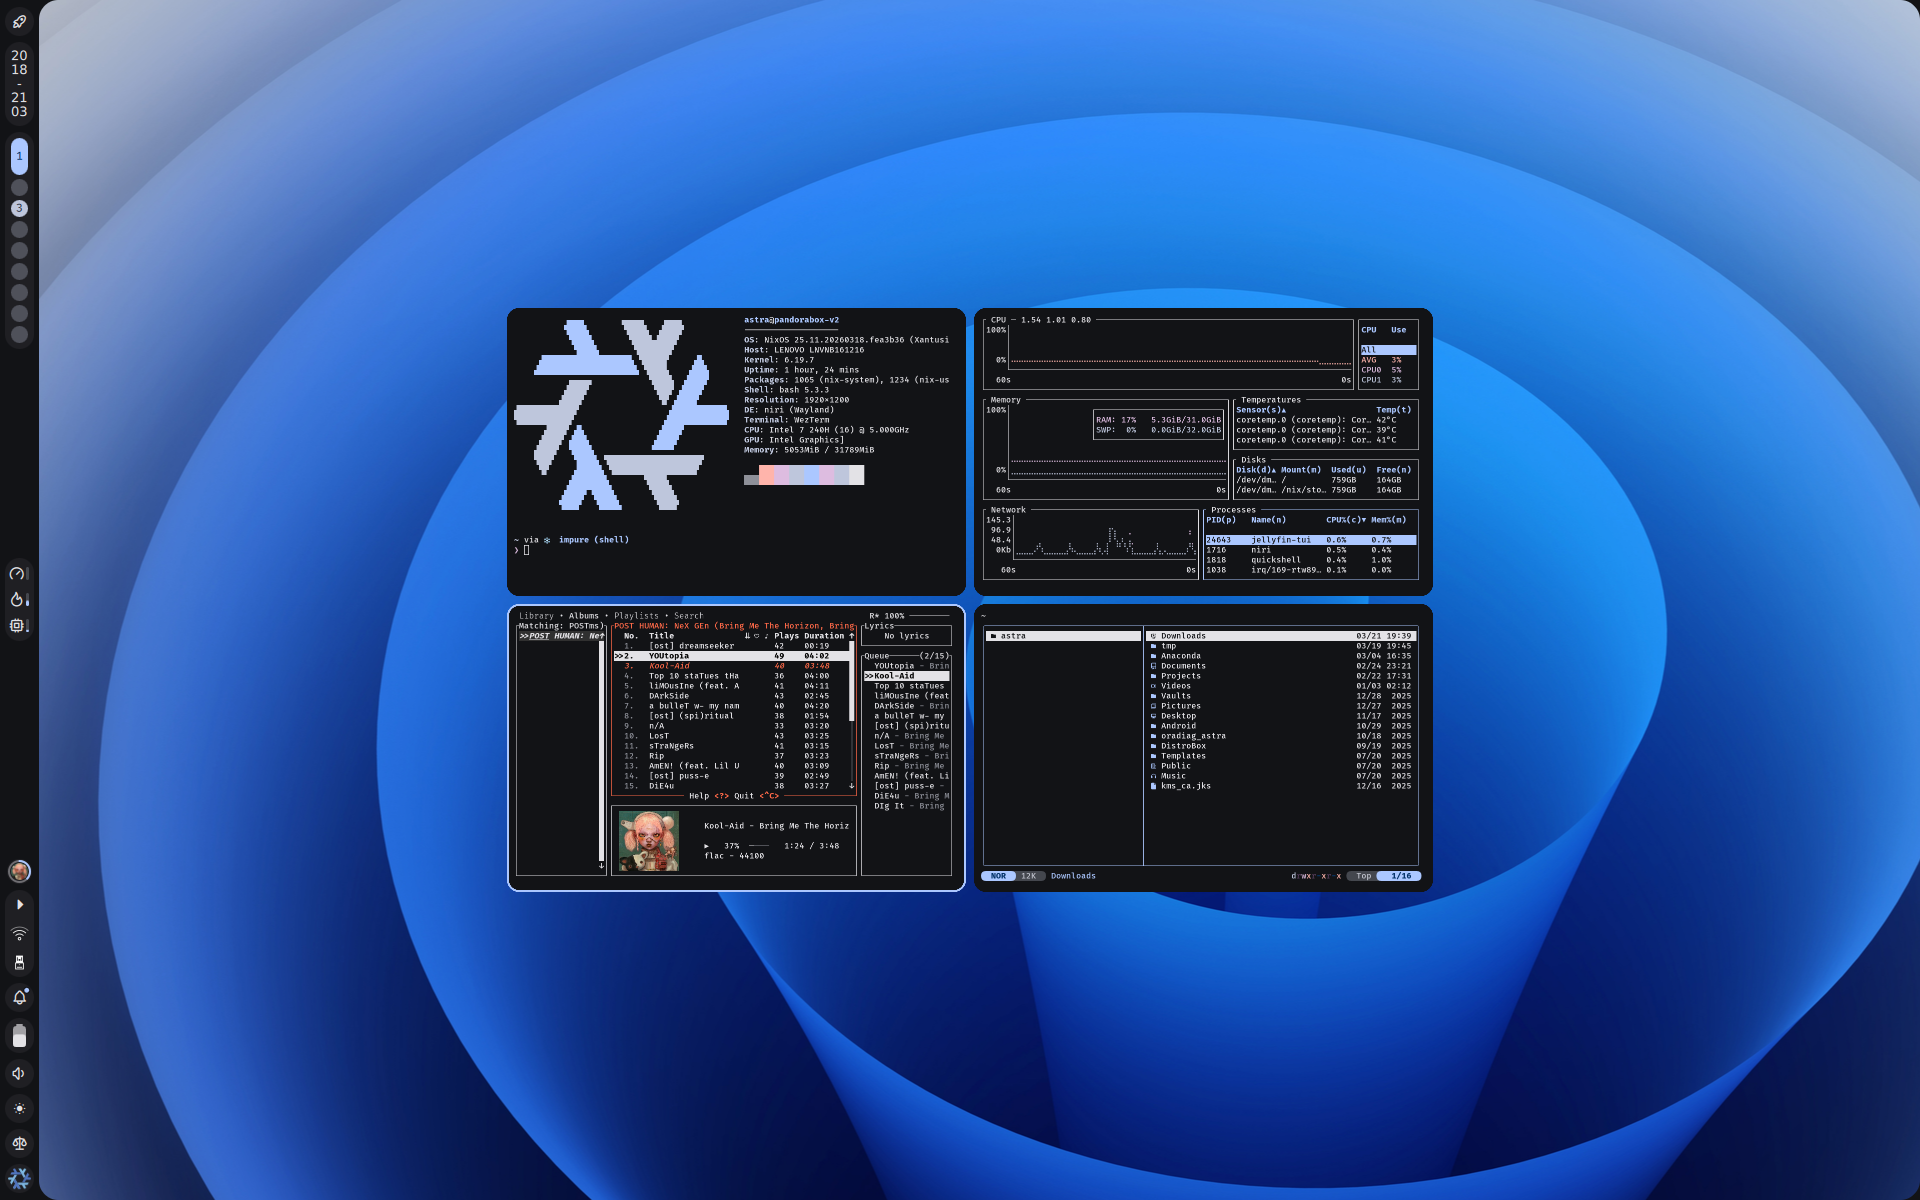
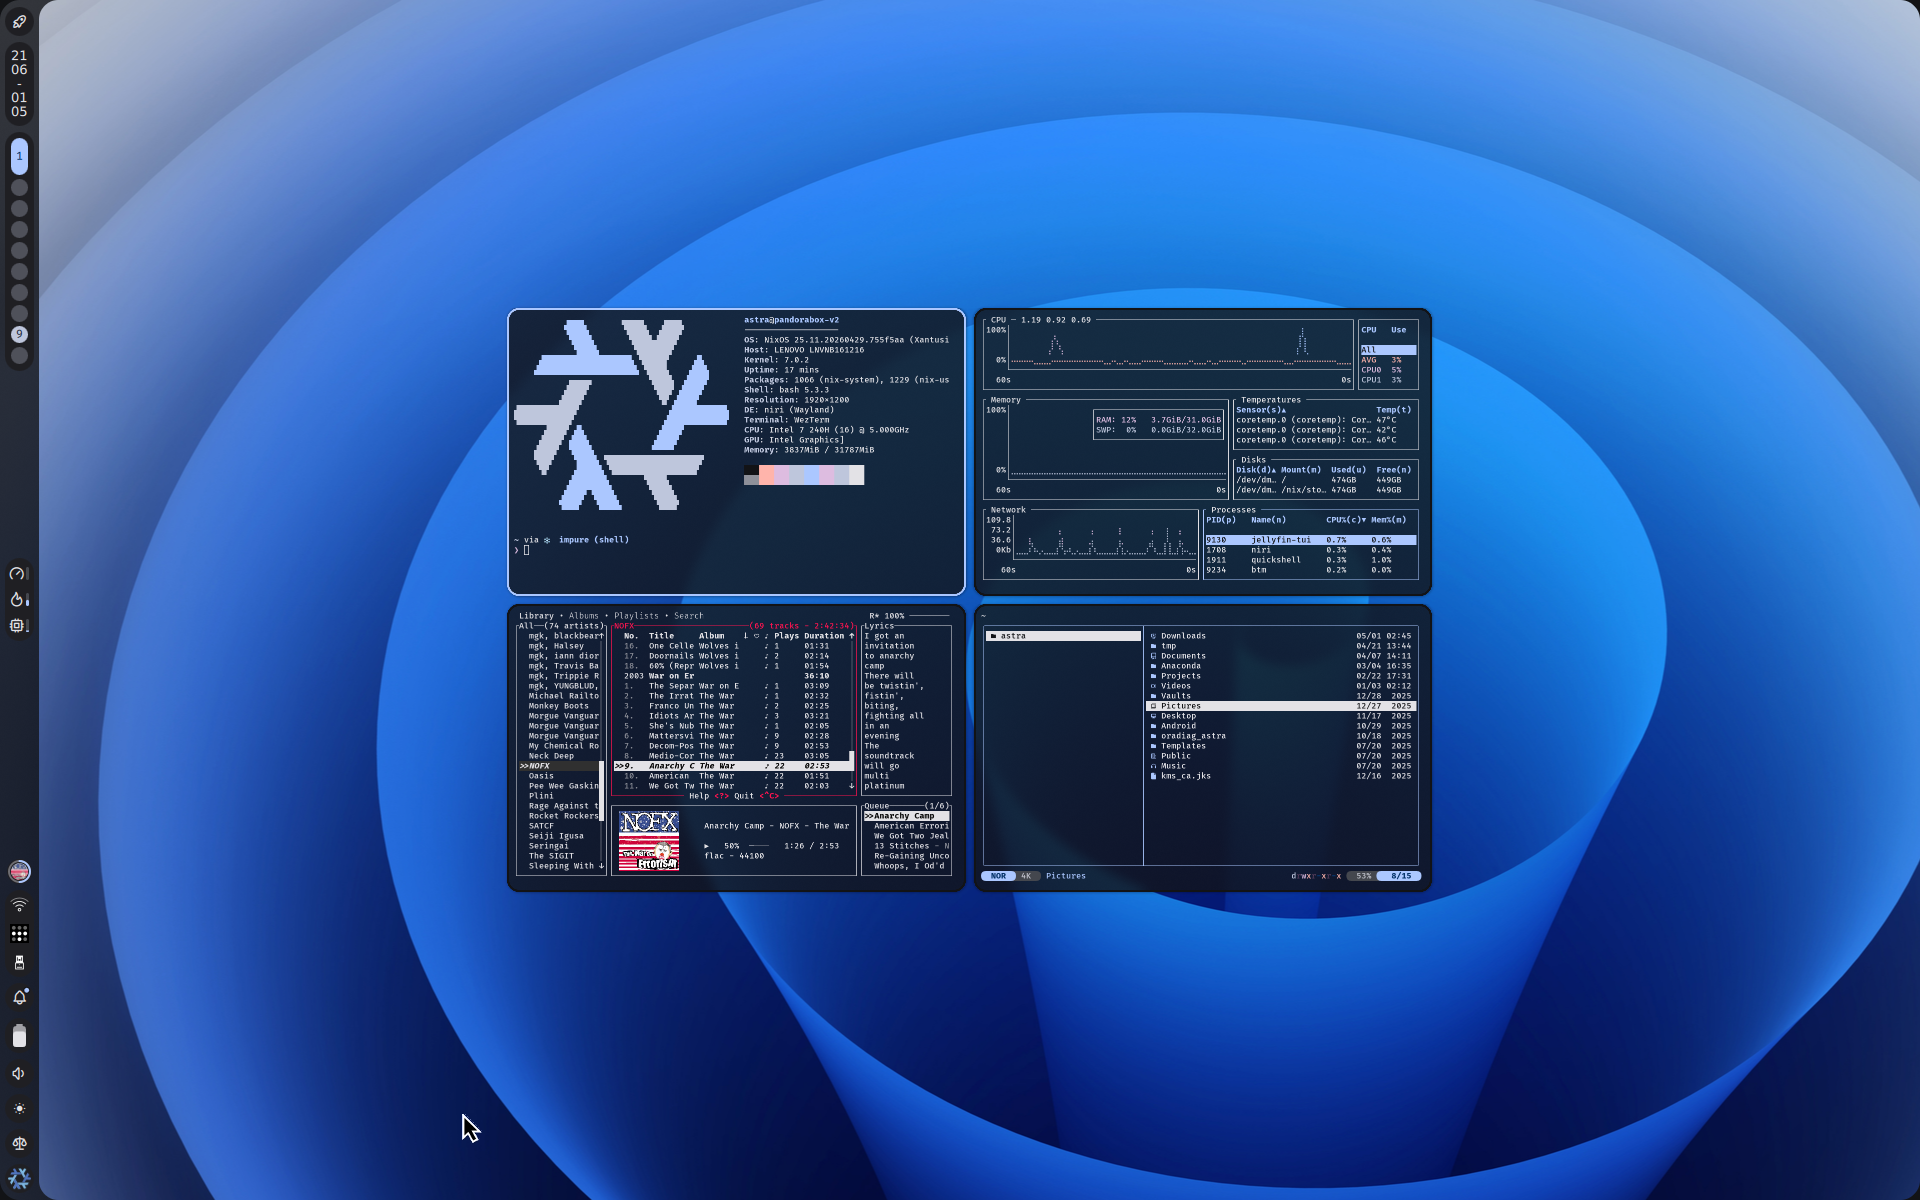
chore: update screenshots

diff --git a/README.md b/README.md
@@ -4,7 +4,8 @@
 
 ![default](./assets/screenshots/profile-astra-01.png)
 ![overview](./assets/screenshots/profile-astra-02.png)
+![web browser](./assets/screenshots/profile-astra-03.png)
 
 ### profiles / astra / gnome
 
-![gnome](./assets/screenshots/profile-astra-03.png)
+![gnome](./assets/screenshots/profile-astra-04.png)
